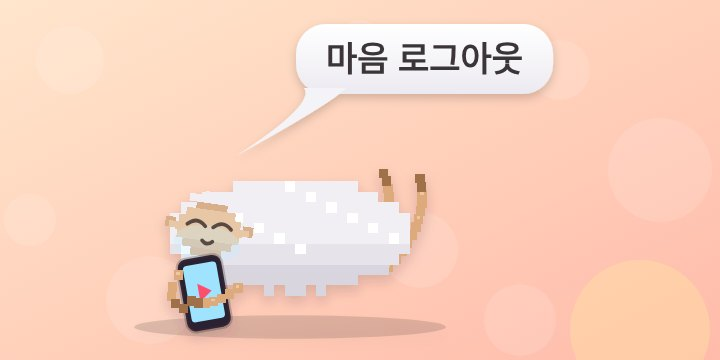
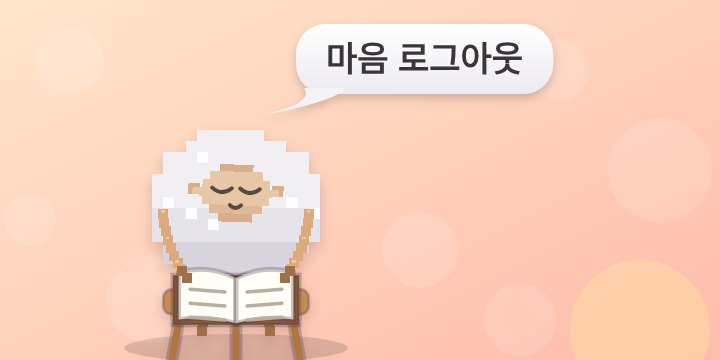
Expand reminder sheep artwork to 50 poses

Changed region(s): [[0.1528, 0.275, 0.6111, 1.0]]

diff --git a/sw.js b/sw.js
@@ -8,32 +8,32 @@
 const DEFAULT_MESSAGES = {
   // 아침(~12시): 아침부터 슬쩍 킹받게
   morning: [
-    ["아담아, 네가 어디 있느냐 👀", "하나님이 아담을 찾으시던 그 질문(창 3:9), 지금 성경책이 똑같이 묻고 있어요. 오늘 분량 {portion}.", "point", "너 어디 있니?"],
-    ["새벽기도는 놓쳤어도 괜찮아요 🌅","주의 긍휼은 아침마다 새롭다잖아요(애 3:22-23). 아침 기회도 아직 새거예요. {portion} 펼쳐요.","cheer","아직 아침임"],
+    ["아담아, 네가 어디 있느냐 👀","하나님이 아담을 찾으시던 그 질문(창 3:9), 지금 성경책이 똑같이 묻고 있어요. 오늘 분량 {portion}.","droop","너 어디 있니?"],
+    ["새벽기도는 놓쳤어도 괜찮아요 🌅","주의 긍휼은 아침마다 새롭다잖아요(애 3:22-23). 아침 기회도 아직 새거예요. {portion} 펼쳐요.","pleading","아직 아침임"],
     ["만나는 해 뜨거워지면 녹습니다 🫠", "출애굽기 16장 21절 실화. 오늘 만나({portion})도 점심 전에 거두는 게 국룰이에요.", "shock", "만나 녹는 중"],
     ["아침 묵상 안 한 양 찾습니다 🔍","목자는 아흔아홉 마리 두고 한 마리를 찾는다던데(눅 15:4)… 네, 지금 찾는 그 한 마리가 당신이에요.","reach","양 찾습니다\n(당신임)"],
     ["커피는 드셨고, 말씀은요? ☕","커피는 벌써 두 잔째인데 성경은 아직 0장. 순서가 살짝 바뀐 것 같아요.","crosslegs","커피 ≠ 말씀"],
-    ["다니엘은 하루 세 번 기도했대요 🦁", "사자 굴 각오하고도 했던 다니엘(단 6:10). 우리는 사자도 없는데 {portion} 정도는…?", "pray", "사자 없음 ㅇㅈ?"],
+    ["다니엘은 하루 세 번 기도했대요 🦁","사자 굴 각오하고도 했던 다니엘(단 6:10). 우리는 사자도 없는데 {portion} 정도는…?","slump","사자 없음 ㅇㅈ?"],
     ["알람 끄고 다시 잠든 거 다 알아요 🤫", "게으른 자여 네가 어느 때까지 누워 있겠느냐(잠 6:9). 잠언이 너무 정확해서 무서운 아침이에요.", "shush", "다 봤음"],
     ["카톡 30개보다 말씀 1장 먼저 📱","알림 빨간 숫자는 기다려 줘요. 오늘 분량 {portion}은 아침에 읽어야 제맛이고요.","phonewait","카톡 말고 이거"],
     ["아브라함은 아침 일찍 일어나… 📜", "성경 인물들 은근 다 아침형이에요(창 22:3). 우리도 아침에 한 장, 찍먹이라도?", "armscross", "너 빼고 다 아침형"],
     ["오늘도 무사히 눈 뜬 기념 🎉", "눈 뜬 것부터 은혜라면, 그 눈으로 성경 한 장 읽는 건 은혜 위에 은혜(요 1:16).", "cheer", "기상 ㅊㅋ"],
-    ["ㄹㅇ 아침인데 성경 안 열면 ㅋㅋ 🌞", "아침에 {portion} 안 읽으면 하루 종일 현타 온다던데요. 지금 펼쳐요.", "crosslegs", "ㄹㅇ 현타 예방"],
+    ["ㄹㅇ 아침인데 성경 안 열면 ㅋㅋ 🌞","아침에 {portion} 안 읽으면 하루 종일 현타 온다던데요. 지금 펼쳐요.","lean","ㄹㅇ 현타 예방"],
     ["아침부터 갓생 선언 🔥", "갓생의 시작은 여호와를 경외하는 데서 시작한대요(잠 1:7). {portion} 한 장이면 시작 완료!", "cheer", "갓생 시작"],
     ["알람 5개 끄고 일어난 거 인정 ⏰", "잠 6:10은 '조금 더 자고 팔짱 끼고'를 경고해요. 이제 팔짱 푸시고 {portion}!", "armscross", "팔짱 풀기"],
     ["오늘 목표: 어제보다 1절 더 🎯", "엄청 많이 말고 어제보다 한 절만 더요. 작은 걸음이 쌓이면 길이 돼요.", "point", "1절만 더"],
     ["공복에 말씀 먼저 🍳","몸 밥은 나중에, 영혼 밥은 먼저요(마 4:4). {portion} 드시고 아침 드세요.","crosslegs","말씀 먼저 간식"],
-    ["물 말고 말씀부터? 💧","물은 한 잔이면 충분하지만 말씀은 아침에 한 장이 베스트래요.","cheer","물 말고 말씀"],
+    ["물 말고 말씀부터? 💧","물은 한 잔이면 충분하지만 말씀은 아침에 한 장이 베스트래요.","sighing","물 말고 말씀"],
     ["어제 읽다 졸았죠? 😏", "괜찮아요. 그래도 오늘 {portion}은 깨어서 봐요. 베드로도 졸았지만 다시 깨어났잖아요(마 26:40).", "peek", "졸았는지 다 봤음"],
     ["출석 부름 받은 거 아시죠? 📋", "하나님은 아담을 부르셨죠(창 3:9). 오늘도 호명에 대답하기! {portion} 펴요.", "sign", "출석 부름"],
   ["새벽 미명에 일어난 사람 🌄","다윗도 새벽에 일어나 말씀에 매달렸대요(시 119:147). 오늘 {portion}, 해 뜨기 전에 먼저 만나 봐요.","run","해 뜨기 전 ㅊㅊ"],
   ["아침 첫 소리는 하나님 말씀으로 📣","하루의 첫 소리를 무엇으로 채울지 정해 봐요. 오늘은 {portion}이 첫 방송이에요.","sign","첫 방송 예약"],
-  ["아침 등불은 말씀이래요 💡","주의 말씀은 내 발에 등이요(시 119:105). 어두운 아침, {portion}으로 불부터 켜요.","point","불 켜기"],
+  ["아침 등불은 말씀이래요 💡","주의 말씀은 내 발에 등이요(시 119:105). 어두운 아침, {portion}으로 불부터 켜요.","waiting","불 켜기"],
   ["오늘 아침 얼굴 붉히지 않게 🌸","부끄러울 일 없는 하루는 말씀으로 시작할 때 쉬워요. {portion}, 지금 펼쳐 볼까요?","heartplease","얼굴 빨개짐"],
   ["아침부터 이마 치기 전에 🤦","어제 뭘 읽었는지 가물가물하다면 괜찮아요. 오늘 {portion}으로 기억을 다시 채워요.","facepalm","기억 리셋"],
   ["새 아침은 새 말씀으로 🌱","주의 인자하심이 아침마다 새로워요(애 3:23). 오늘 {portion}도 처음 읽는 것처럼요.","pray","새 아침"],
   ["아침 한 숟가락, 말씀 한 장 🥄","밥 한 숟가락 뜨기 전에 {portion} 한 절만 먼저 떠 보세요. 배부른 하루가 시작돼요.","crosslegs","한 숟가락 먼저"],
-  ["독수리처럼 날개 치기 전에 🦅","날개 치며 오르려면 먼저 든든히 먹어야 해요(사 40:31). 오늘 {portion}이 그 든든한 아침이에요.","cheer","날개 준비"],
+  ["독수리처럼 날개 치기 전에 🦅","날개 치며 오르려면 먼저 든든히 먹어야 해요(사 40:31). 오늘 {portion}이 그 든든한 아침이에요.","dozing","날개 준비"],
   ["나를 부지런히 찾는 자 🔎","새벽에 나를 찾는 자가 나를 만나리라(잠 8:17). 오늘도 {portion}에서 만나요.","peek","찾았다!"],
     ["좋은 아침이에요, 오늘도 함께 읽어요 ☀", "서두르지 않아도 괜찮아요. 오늘의 {portion}에서 마음에 닿는 한 문장을 만나 보세요.", "pray", "천천히 한 문장"],
     ["오늘 첫 페이지를 열 시간 📖","딱 한 장부터 시작해요. 작은 시작이 하루의 방향을 바꿔 줍니다.","point","첫 페이지"],
@@ -41,27 +41,27 @@ const DEFAULT_MESSAGES = {
   ],
   // 오후(12~18시) 나른할 때 찌르기
   afternoon: [
-    ["엘리야 로뎀나무 모드 감지 🌳", "지쳐 누운 엘리야에게도 천사가 '일어나서 먹으라' 했죠(왕상 19:5). 오늘 떡은 {portion}.", "lounge", "일어나 먹으라"],
+    ["엘리야 로뎀나무 모드 감지 🌳","지쳐 누운 엘리야에게도 천사가 '일어나서 먹으라' 했죠(왕상 19:5). 오늘 떡은 {portion}.","embarrassed","일어나 먹으라"],
     ["식곤증 주의: 유두고 사례 🪟", "바울 설교 듣다 졸다가 창문에서 떨어진 유두고(행 20:9). 성경 읽다 졸면 적어도 바닥이라 안전해요.", "sleep", "…zzZ"],
     ["제 구 시, 기도할 시간이에요 🕒", "베드로와 요한은 오후 세 시에 기도하러 성전에 올라갔대요(행 3:1). 오후 세 시엔 말씀 한 장도 좋아요.", "peek", "제 구 시임"],
     ["요나처럼 반대 방향 가는 중? 🐋", "니느웨 말고 다시스행 배를 탄 요나(욘 1:3). 성경 말고 쇼츠를 탄 우리. 지금 방향 전환 가능합니다.", "run", "다시스 아님!"],
     ["오후 간식은 칼로리 0 🍯", "주의 말씀의 맛이 꿀보다 더 달다고(시 119:103). 0kcal인데 달대요. {portion} 한 입?", "crosslegs", "0kcal 꿀"],
-    ["삭개오야, 속히 내려오라 🌳", "나무 위에서 구경만 하던 삭개오처럼(눅 19:5), 오늘 말씀도 구경만 하고 있진 않나요?", "point", "내려오라"],
+    ["삭개오야, 속히 내려오라 🌳","나무 위에서 구경만 하던 삭개오처럼(눅 19:5), 오늘 말씀도 구경만 하고 있진 않나요?","wave_small","내려오라"],
     ["오늘 통독률 0%… 실화? ⏳", "와이파이는 빵빵한데 말씀 진도는 0%. 지금 {portion} 누르면 바로 로딩 시작이에요.", "eye_roll", "0%…실화?"],
     ["마리아는 좋은 편을 택했대요 ✨", "바쁜 오후여도 필요한 것은 한 가지(눅 10:42). 할 일 목록 맨 위에 {portion} 올려 둘게요.", "sign", "좋은 편\n택하는 중"],
     ["바로 왕처럼 '내일' 하실 건가요? 🐸","개구리 재앙 언제 없애 줄까 물으니 '내일'이라던 바로(출 8:10). 어디서 많이 본 패턴인데요.","crosslegs","내일? 🐸"],
     ["남은 알림 전에 선수 치기 🏃", "지금 읽으면 오늘 남은 알림이 조용해져요. 알림 피하는 가장 빠른 방법!", "shush", "조용히 끝내자"],
-    ["오후 3시 집중력 바닥 🫠", "엘리야도 로뎀나무 아래서 쓰러졌지만 천사가 먹을 것을 주고 다시 세웠어요(왕상 19:5-7). {portion} 한 장으로 충전!", "lounge", "충전 필요"],
+    ["오후 3시 집중력 바닥 🫠","엘리야도 로뎀나무 아래서 쓰러졌지만 천사가 먹을 것을 주고 다시 세웠어요(왕상 19:5-7). {portion} 한 장으로 충전!","wave_tired","충전 필요"],
     ["점심 먹고 쇼츠 3개 봤죠? 📱", "쇼츠는 3개에서 멈추기 힘들지만, 성경은 {portion} 한 장에서 멈춰도 괜찮아요.", "phone", "쇼츠 말고 이거"],
     ["ㄹㅇ 오후는 졸음 전쟁... 😴", "식곤증은 말씀으로 이기는 거예요(시 119:103). 한 절만 읽고 세수 한번 해요.", "sleep", "졸음 전쟁"],
     ["이거 실화냐 통독 0%? 🤔","0%는 아직 '시작 전'이라는 뜻! {portion} 누르면 1%예요. 진짜로요.","condescend","0% 실화?"],
     ["지금 가는 길 맞아요? 🧭", "요나처럼 방향 틀기 전에 {portion} 한 번 펼쳐 보는 것도 좋아요(욘 1:3).", "run", "방향 체크"],
-    ["오후 간식은 말씀 간식 🍪", "꿀보다 달다는 말씀이에요(시 119:103). 칼로리 걱정 없는 간식! {portion} 한 입.", "crosslegs", "칼로리 0"],
+    ["오후 간식은 말씀 간식 🍪","꿀보다 달다는 말씀이에요(시 119:103). 칼로리 걱정 없는 간식! {portion} 한 입.","arms_open","칼로리 0"],
     ["버스 타는 중이면 한 절 🚌", "버스 세 정거장이면 한 장도 가능한 거리예요. {portion} 열어 두세요.", "phone", "버스에서 한 절"],
     ["'내일 하지 뭐' 금지 ⏳","바로처럼 미루다 보면 결국 못 가요(출 8:10). 지금 {portion} 부탁!","fingerwag","내일 금지"],
     ["잠깐, 마음에 쉼표를 놓아 볼까요? 🍃","바쁜 틈에 숨을 고르고 {portion} 한 장 읽어요. 오늘도 충분히 잘하고 있어요.","cheer","마음의 쉼표"],
     ["3분만 집중 모드 켜기 🎧", "알림은 잠시 내려놓고 말씀 한 단락만 읽어 봐요. 작은 집중이 깊은 쉼이 됩니다.", "phone", "집중 모드"],
-    ["속보: 오후의 내가 말씀을 기다립니다 📰", "쇼츠 한 편 대신 {portion} 한 장이면 오늘 이야기의 주인공은 나예요.", "sign", "속보입니다"],
+    ["속보: 오후의 내가 말씀을 기다립니다 📰","쇼츠 한 편 대신 {portion} 한 장이면 오늘 이야기의 주인공은 나예요.","shoulders_up","속보입니다"],
   ],
   // 저녁(18~20시)
   evening: [
@@ -69,22 +69,22 @@ const DEFAULT_MESSAGES = {
     ["베뢰아 성도 모집 중 📜", "날마다 성경을 상고하던 베뢰아 사람들처럼(행 17:11), 오늘은 {portion}을 상고할 차례예요.", "sign", "베뢰아 성도\n모집 중"],
     ["칼뱅의 안경 챙기셨나요? 👓", "칼뱅은 성경을 하나님을 바로 보게 하는 안경이라 했죠. 오늘 안경은 아직 서랍 속에 있어요.", "peek", "안경 어디?"],
     ["사무엘아, 사무엘아 👂", "“말씀하옵소서 주의 종이 듣겠나이다”(삼상 3:10)가 정답인데, 지금 대답이 '5분만…'인 것 같아요.", "sideeye", "5분만…"],
-    ["퇴근길 말씀 한 조각 🚇", "오늘 분량은 {portion}. 두세 정거장이면 한 장이 끝나요. 쇼츠 말고 이거요.", "phone", "지하철엔 성경"],
+    ["퇴근길 말씀 한 조각 🚇","오늘 분량은 {portion}. 두세 정거장이면 한 장이 끝나요. 쇼츠 말고 이거요.","hands_behind","지하철엔 성경"],
     ["저녁은 드셨고, 말씀은요? 🍚", "사람이 떡으로만 살 것이 아니라 하셨는데(마 4:4), 오늘 설마 떡만 드신 건 아니죠?", "armscross", "떡만 먹음?"],
     ["롯의 아내처럼 뒤돌아보지 마요 🧂", "오늘 하루 돌아보며 한숨 쉬지 말고(창 19:26), 앞에 놓인 {portion}만 보고 가요.", "shock", "소금 될 뻔"],
     ["노아는 비 오기 전에 방주 지었어요 🛶", "비 오고 나서 지으면 늦잖아요(창 6:22). 자정 오기 전에 {portion} 지어 봐요.", "run", "비 오기 전에!"],
     ["여리고는 일곱 바퀴, 오늘은 한 장부터 🎺","여리고 성은 일곱 바퀴 돌아야 무너졌지만(수 6:4), 오늘 분량은 한 장씩 넘기면 무너져요.","sign","뿌우우~"],
-    ["기드온처럼 표징 기다리는 중? 🐑","양털로 확인하던 기드온처럼(삿 6:37) 사인을 기다리셨다면… 이 양이 그 표징입니다. 지금 읽으세요.","condescend","이게 표징임"],
+    ["기드온처럼 표징 기다리는 중? 🐑","양털로 확인하던 기드온처럼(삿 6:37) 사인을 기다리셨다면… 이 양이 그 표징입니다. 지금 읽으세요.","book_overhead","이게 표징임"],
     ["저녁 먹고 뭐 하세요? 🍽","설거지 끝나고 소파에 눕기 전에 {portion} 먼저 펼쳐요. 누워서 해도 인정!","sideeye","소파 전에 한 장"],
     ["오늘 하루 감사 한 줄 준비 ✍", "오늘 말씀 한 절에 감사 한 줄 쓰면 하루가 완성돼요(살전 5:18).", "sign", "감사 한 줄"],
     ["ㅋㅋ 오늘 통독 안 하고 밤 되었죠? 🌙", "밤에 하면 조금 더 힘들어요. 그래도 {portion} 한 장!", "shock", "밤이 왔다"],
     ["갓생 러너 퇴근 완료 🏃", "오늘 달렸으니 마지막 한 바퀴! 달려갈 길을 마치기 위해(딤후 4:7) {portion}.", "run", "마지막 한 바퀴"],
-    ["말씀 없이 잠들면 꿈도 흐려져요 💭", "꿈 얘기하던 요셉처럼(창 37:5) 오늘 말씀을 꿈에 가져가요. {portion} 펴고 자요.", "peek", "꿈에 말씀 들고"],
+    ["말씀 없이 잠들면 꿈도 흐려져요 💭","꿈 얘기하던 요셉처럼(창 37:5) 오늘 말씀을 꿈에 가져가요. {portion} 펴고 자요.","book_on_head","꿈에 말씀 들고"],
     ["아 피곤하죠? 그래도 한 장 🥱", "엘리야도 천사가 준 떡 한 끼로 40일을 갔어요(왕상 19:8). 말씀 한 끼 먹고 자요.", "lounge", "말씀 한 끼"],
     ["내일 아침의 나에게 떠넘기기 금지 📝", "내일 일은 내일이 염려할 거예요(마 6:34). 오늘 {portion}은 오늘 읽어요.", "sign", "오늘이 마감"],
     ["폰 내려놓고 성경 열기 📵", "폰 80%보다 성경 한 장 100%! {portion} 펴면 잠도 잘 와요.", "shush", "폰 내려놓기"],
     ["저녁의 평안을 한 페이지에 🌙", "하루의 소음을 잠시 내려놓고, {portion}을 천천히 읽으며 마음을 쉬게 해요.", "pray", "평안 한 페이지"],
-    ["퇴근 완료! 마음도 로그아웃 전에 📤", "오늘의 마지막 업무는 나를 살리는 말씀 읽기. {portion} 확인 후 편히 쉬세요.", "phone", "마음 로그아웃"],
+    ["퇴근 완료! 마음도 로그아웃 전에 📤","오늘의 마지막 업무는 나를 살리는 말씀 읽기. {portion} 확인 후 편히 쉬세요.","reading_seated","마음 로그아웃"],
     ["양심이 아니라 양이 톡 보냈어요 🐑", "오늘 읽을 {portion}이 아직 안 읽힘 상태래요. 지금 열면 바로 해결됩니다.", "peek", "안 읽음 1건"],
   ],
   // 밤(20~22시): 더 킹받게
@@ -92,22 +92,22 @@ const DEFAULT_MESSAGES = {
     ["마르다야, 마르다야 🍳", "분주한 하루였죠. 그래도 필요한 것은 한 가지(눅 10:42). {portion}, 지금 주님 발치에 앉아 볼까요?", "facepalm", "마르다야…"],
     ["도르트 총회만큼 미루실 건가요? ⏳", "도르트 총회는 반년이 넘게 걸렸지만, 오늘 통독은 20분이면 돼요.", "eye_roll", "도르트급 미룸"],
     ["쇼츠 대신 성경 한 장? 📱", "알고리즘은 끝이 없지만 오늘 분량은 끝이 있어요. {portion}부터 가볍게 시작해요.", "phone", "쇼츠 3시간째"],
-    ["겟세마네 제자들 모드 😴","“너희가 나와 함께 한 시간도 깨어 있을 수 없더냐”(마 26:40). 한 시간까진 필요 없어요. 20분이면 돼요.","stomp","한 시간도…?"],
+    ["겟세마네 제자들 모드 😴","“너희가 나와 함께 한 시간도 깨어 있을 수 없더냐”(마 26:40). 한 시간까진 필요 없어요. 20분이면 돼요.","book_rest","한 시간도…?"],
     ["보아스가 이삭을 남겨 뒀어요 🌾", "룻을 위해 일부러 이삭을 흘려 두던 보아스처럼(룻 2:16), 오늘 말씀 이삭도 넉넉히 남아 있어요.", "crosslegs", "이삭 남음 ㅎ"],
     ["에스라는 새벽부터 정오까지 읽었대요 📖", "느헤미야 8장의 에스라는 반나절을 읽었는데(느 8:3), 우리는 {portion}이면 돼요. 할 만하죠?", "sign", "에스라: 6시간\n나: 0분"],
     ["주야로 묵상, 이제 '야'만 남았어요 🌙", "복 있는 사람은 주야로 묵상한다죠(시 1:2). 낮은 지나갔지만 밤은 아직 길어요.", "lounge", "이제 '야'임"],
     ["발람의 나귀도 말을 했는데 🫏","나귀까지 입을 열어 말렸는데(민 22:28), 이제 양까지 나섰습니다. 성경 펴세요.","sign","양도 말함"],
-    ["닭 울기 전에 세 번째 다짐? 🐓","“오늘은 진짜 읽는다” 오늘 몇 번째 다짐이세요? 닭 울기 전에 지켜 봐요(마 26:34).","crosslegs","세 번째임"],
+    ["닭 울기 전에 세 번째 다짐? 🐓","“오늘은 진짜 읽는다” 오늘 몇 번째 다짐이세요? 닭 울기 전에 지켜 봐요(마 26:34).","head_tilt","세 번째임"],
     ["섭리 가운데 도착한 알림입니다 😌","이 알림을 지금 보신 것도 섭리 안에 있겠죠? 순종으로 응답할 시간이에요.","condescend","섭리임 ㅇㅇ"],
     ["밤이 깊을수록 말씀이 또렷 🌃","밤에 읽는 시편은 참 맛있어요. 주야로 묵상하는 사람은 복 있는 사람이래요(시 1:2). {portion}!","condescend","밤 시편 맛집"],
     ["ㅅㄱ 또 밤에 생각났죠? 🤭", "밤에 생각나는 말씀이 제일 오래 남아요. 지금 {portion} 한 장만요.", "crosslegs", "밤에 생각남"],
     ["잠들기 전 기도 한마디 + 말씀 한 장 🙏","자기 전 말씀 한 장, 기도 한 줄이면 완벽한 마무리예요. {portion} 펴고 기도해요.","kneel","취침 전 루틴"],
-    ["오늘 완주 못 하면 어떡하지… 😰","완벽하지 않아도 돼요. 할 수 있는 만큼, {portion} 한 절부터 시작해요.","pleading","한 절이면 됨"],
+    ["오늘 완주 못 하면 어떡하지… 😰","완벽하지 않아도 돼요. 할 수 있는 만큼, {portion} 한 절부터 시작해요.","foot_tap","한 절이면 됨"],
     ["밤 11시, 아직 살아 계신가요? 👀", "밤샘은 말고, 깨어 있을 때 {portion} 한 번만 펼쳐요(마 26:41).", "shush", "깨어 있기"],
     ["쇼츠 대신 시편 한 편? 🎵","시편은 노래책이라 노래 한 곡 듣는 셈 쳐요. {portion} 열고 소리 내 읽어 봐요.","offerbook","시편 틀기"],
     ["자려고 누웠는데 폰 보는 중 🛌","누운 채로 {portion} 한 절만요. 그리고 폰은 내려놓아요.","phonewait","누워서 한 절"],
     ["오늘 진짜 마지막 질문! 📣","오늘 말씀 읽었나요? NO면 지금 {portion} 한 절만 읽고 주무세요.","eye_roll","YES or NO?"],
-    ["오늘 하루, 여기까지도 수고했어요 🌌","남은 힘이 적다면 한 절만 읽어도 좋아요. 말씀 안에서 하루를 다정하게 마무리해요.","heartplease","한 절도 좋아요"],
+    ["오늘 하루, 여기까지도 수고했어요 🌌","남은 힘이 적다면 한 절만 읽어도 좋아요. 말씀 안에서 하루를 다정하게 마무리해요.","crawl","한 절도 좋아요"],
     ["마감 임박! 성경책은 야근 안 시킬게요 🕘","전부 끝내려 애쓰지 않아도 돼요. {portion}에서 한 장만 함께 읽어요.","facepalm","한 장이면 충분"],
     ["야식 대신 말씀 한 입 🍯","오늘의 양식은 아직 남아 있어요. {portion} 한 장 맛보고 편히 잠들어요.","crosslegs","마음 야식"],
   ],
@@ -115,7 +115,7 @@ const DEFAULT_MESSAGES = {
   last: [
     ["열 처녀 비유, 등불 점검 🪔","자정까지 한 시간! 오늘 통독 등불이 아직 꺼져 있어요(마 25장). 기름 채우러 가요.","point","기름 없음!!"],
     ["🔥 {streak}일 연속 기록이 위태로워요","바울은 달려갈 길을 마쳤다는데(딤후 4:7), 우리의 연속 통독은 오늘 멈출 위기예요.","cling","연속 기록!!","streak"],
-    ["니고데모도 밤에 찾아왔어요 🌃", "늦은 밤에 말씀 앞에 나와도 괜찮아요(요 3:2). 지금 한 장이라도 펼쳐요.", "peek", "밤에 와도 됨"],
+    ["니고데모도 밤에 찾아왔어요 🌃","늦은 밤에 말씀 앞에 나와도 괜찮아요(요 3:2). 지금 한 장이라도 펼쳐요.","tiny_bow","밤에 와도 됨"],
     ["개미에게 가서 배우라시던데요 🐜", "잠언 6장 6절이 이 시간에 떠오른 건 우연일까요? 아직 늦지 않았어요.", "sign", "개미 보고\n배우는 중"],
     ["당회에는 비밀로 할게요 🤫", "오늘 통독 안 한 거, 목사님·장로님껜 말 안 할게요. 대신 자기 전에 {portion} 딱 펼쳐 주세요.", "shush", "비밀 지켜줌"],
     ["마지막 알림이에요. 진짜로요.","은혜는 값없이 주어지지만 성경은 펼쳐야 읽혀요. 오늘이 가기 전에 한 장만이라도! 🙏","lastlook","진짜 마지막"],
@@ -234,7 +234,7 @@ async function buildMessage() {
   const fill = (s) => s.replace(/\{portion\}/g, portion).replace(/\{streak\}/g, String(streak));
   // 메시지마다 양(🐑) 포즈 그림: icons/notify/<시간대>-<원래 순서>.jpg (안드로이드·PC 크롬/엣지에서 크게 보임, 아이폰은 표시 안 함)
   const rowIndex = MESSAGES[tier].indexOf(pool[idx]);
-  const image = pool[idx][5] || `icons/notify/${tier}-${rowIndex}.jpg?v=sheep-thirty-simple-mouths-20261028`;
+  const image = pool[idx][5] || `icons/notify/${tier}-${rowIndex}.jpg?v=sheep-fifty-poses-20261028`;
   return { title: fill(pool[idx][0]), body: fill(pool[idx][1]), image };
 }
 

diff --git a/tools/notify-art/art.js b/tools/notify-art/art.js
@@ -44,7 +44,7 @@ function faceMarks(spec) {
   if (has("tint")) s += ell(0, -12, 30, 12, "#8FA2F0", 'opacity="0.45"') + line("M-12,-22 L-12,-14 M0,-24 L0,-16 M12,-22 L12,-14", "#6275D0", 1.8, 'opacity="0.7"');
   if (has("glow")) s += ell(0, 14, 26, 14, "#BFEFFF", 'opacity="0.3"');
   // 눈동자·흰자·점 없이 이모티콘처럼 짧은 곡선 두 개만 쓴다.
-  // 감정 차이는 곡선의 방향과 눈썹, 얼굴 기울기로 표현한다.
+  // 감정 차이는 곡선의 방향과 얼굴 기울기로 표현한다.
   const eyesByMood = {
     side: ["M-17,1 Q-10,-5 -3,1", "M5,0 Q11,-4 17,0"],
     roll: ["M-17,2 Q-10,-4 -3,1", "M4,1 Q10,-5 17,2"],
@@ -115,7 +115,7 @@ function limb(pts, { w = 10, tip = true } = {}) {
   return out;
 }
 function hoofAt(x, y, r = 7) { return circle(x, y, r, C.tip) + circle(x - r * 0.3, y - r * 0.35, r * 0.35, "#fff", 'opacity="0.3"'); }
-function bigHoof(x, y, r = 15) { return circle(x, y, r, C.tip) + line(`M${x},${y - r * 0.8} L${x},${y + r * 0.2}`, "#7A5033", 2.5) + ell(x - r * 0.35, y - r * 0.4, r * 0.3, r * 0.18, "#fff", 'opacity="0.35"'); }
+function bigHoof(x, y, r = 15) { return circle(x, y, r, C.tip); }
 
 // ---------- 효과 ----------
 function sweatDrop(x, y, s = 1) {
@@ -277,8 +277,7 @@ const POSES = {
     hip(-1) + limb([[52, 4], [76, 18], [88, 12]]) + line("M-99,-42 L-80,-48 M-100,-28 L-82,-31", "#D9C9B5", 3),
   // 한쪽 눈썹만 올린 채 여유롭게 미소 짓는다.
   fingerwag: () => shadow(0, 92) + legs() + sheep({ expr: "squint,flat" }) + hang(-1) +
-    limb([[52, 4], [66, -12], [82, -38]], { tip: false, w: 9 }) +
-    line("M83,-54 L83,-40 M75,-50 L79,-42 M91,-50 L87,-42", "#F2C14E", 3),
+    limb([[52, 4], [66, -12], [82, -38]], { w: 9 }),
   // 두 앞발을 모아 오늘 분량을 꼭 부탁한다.
   pleading: () => shadow(0, 92) + legs() + sheep({ expr: "sad,pout,blush" }) +
     limb([[-52, 4], [-34, 28], [0, 10]]) + limb([[52, 4], [34, 28], [0, 10]]) +
@@ -319,7 +318,27 @@ const POSES = {
   offerbook: () => shadow(0, 92) + legs() + sheep({ expr: "sad,blush" }) +
     limb([[-52, 4], [-67, 24], [-76, 34]]) + limb([[52, 4], [77, 18], [86, 6]]) +
     bible(96, -4, 42, 54, 12),
-  // 무릎을 끌어안고 기다리지만 눈길은 문 쪽으로 향한다.
+  // 축 처진 양, 늦은 답장과 소소한 부탁을 표현하는 추가 포즈.
+  droop: () => shadow(0,92) + legs() + sheep({expr:"vv,flat",frot:12}) + hang(-1) + hang(1),
+  slump: () => shadow(0,92) + legs() + g("rotate(15)", sheep({expr:"closed,flat"}) + hang(-1) + hang(1)),
+  lean: () => shadow(0,92) + legs() + sheep({expr:"side,flat",frot:-15}) + hip(-1) + hang(1),
+  sighing: () => shadow(0,92) + legs() + sheep({expr:"vv,flat"}) + hang(-1) + hang(1) + sighCloud(85,-35),
+  waiting: () => shadow(0,100,80) + stool(0,66) + legs() + sheep({expr:"side,flat"}) + hang(-1) + hang(1),
+  dozing: () => shadow(0,92) + legs() + sheep({expr:"closed,flat",frot:20}) + hang(-1) + hang(1) + zzz(60,-20),
+  embarrassed: () => shadow(0,92) + legs() + sheep({expr:"vv,blush,sweat"}) + limb([[-52,4],[-60,-12],[-36,-24]]) + hang(1),
+  wave_small: () => shadow(0,92) + legs() + sheep({expr:"vv,blush"}) + hang(-1) + limb([[52,4],[65,0],[68,-20]]),
+  wave_tired: () => shadow(0,92) + legs() + sheep({expr:"closed,flat",frot:8}) + hang(-1) + limb([[52,4],[64,20],[76,16]]),
+  arms_open: () => shadow(0,92) + legs() + sheep({expr:"^^,blush"}) + limb([[-52,4],[-75,4],[-92,-8]]) + limb([[52,4],[75,4],[92,-8]]),
+  shoulders_up: () => shadow(0,92) + legs() + sheep({expr:"side,flat"}) + limb([[-52,4],[-77,-6],[-72,-24]]) + limb([[52,4],[77,-6],[72,-24]]),
+  hands_behind: () => shadow(0,92) + legs() + limb([[-52,4],[-70,20],[-55,42]]) + limb([[52,4],[70,20],[55,42]]) + sheep({expr:"vv,blush"}),
+  book_overhead: () => shadow(0,92) + legs() + sheep({expr:"^^,o"}) + limb([[-52,4],[-70,-30],[-42,-64]]) + limb([[52,4],[70,-30],[42,-64]]) + bible(0,-74,56,42),
+  book_on_head: () => shadow(0,92) + legs() + sheep({expr:"vv,flat"}) + hang(-1) + hang(1) + bible(0,-61,68,28,-3),
+  reading_seated: () => shadow(0,100,80) + stool(0,66) + legs() + sheep({expr:"closed"}) + bible(0,50,82,54,0,true) + limb([[-52,4],[-50,30],[-35,50]]) + limb([[52,4],[50,30],[35,50]]),
+  book_rest: () => shadow(0,92) + legs() + sheep({expr:"vv,flat",frot:8}) + hang(-1) + limb([[52,4],[70,20],[80,38]]) + bible(91,43,40,52,12),
+  head_tilt: () => shadow(0,92) + legs() + sheep({expr:"side,pout",frot:22}) + hang(-1) + hip(1),
+  foot_tap: () => shadow(0,92) + limb([[-22,48],[-24,88]]) + limb([[22,48],[45,84]]) + sheep({expr:"side,flat"}) + hip(-1) + hip(1) + tapMarks(46,88),
+  crawl: () => shadow(0,75,110) + sheep({rx:85,ry:40,fx:-55,fy:-5,expr:"sad,pout"}) + limb([[-50,30],[-80,55],[-95,54]]) + limb([[45,30],[80,54],[98,54]]),
+  tiny_bow: () => shadow(0,92) + legs() + g("rotate(18)",sheep({expr:"closed,blush"}) + limb([[-52,4],[-30,30],[-5,35]]) + limb([[52,4],[30,30],[5,35]])),
 };
 
 function bubbleText(text, x, y) {

diff --git a/js/features/reminder-admin.js b/js/features/reminder-admin.js
@@ -28,7 +28,7 @@ function reminderAdminLoadArt() {
   reminderAdminArtScript = new Promise((resolve, reject) => {
     const script = document.createElement("script");
     script.type = "module";
-    script.src = "tools/notify-art/art.js?v=reminder-stability-6";
+    script.src = "tools/notify-art/art.js?v=reminder-stability-7";
     script.onload = () => window.ReminderArt?.renderCard ? resolve(window.ReminderArt) : reject(new Error("양 그림 렌더러를 찾지 못했어요."));
     script.onerror = () => reject(new Error("양 그림 렌더러를 불러오지 못했어요."));
     document.head.append(script);

diff --git a/index.html b/index.html
@@ -79,7 +79,7 @@
   <script src="js/features/summary.js?v=10.10.0"></script>
   <script src="js/features/qt.js?v=10.10.0"></script>
   <script src="js/features/qtgraph.js?v=10.10.0"></script>
-  <script src="js/features/reminder-admin.js?v=10.10.0&rev=reminder-admin-stability-4"></script>
+  <script src="js/features/reminder-admin.js?v=10.10.0&rev=reminder-admin-stability-7"></script>
   <script src="js/features/stats.js?v=10.10.0&rev=admin-random-reminder-db-1"></script>
   <script src="js/features/export.js?v=10.10.0"></script>
   <script src="js/features/reminder.js?v=10.10.0"></script>

diff --git a/docs/reminder-catalog.md b/docs/reminder-catalog.md
@@ -8,32 +8,32 @@
 
 | # | 알림 제목 | 알림 본문 | 양 포즈 | 그림 말풍선 | 조건 | 이미지 |
 |---:|---|---|---|---|---|---|
-| 1 | 아담아, 네가 어디 있느냐 👀 | 하나님이 아담을 찾으시던 그 질문(창 3:9), 지금 성경책이 똑같이 묻고 있어요. 오늘 분량 {portion}. | `point` | 너 어디 있니? | 항상 | [그림 보기](../icons/notify/morning-0.jpg) |
-| 2 | 새벽기도는 놓쳤어도 괜찮아요 🌅 | 주의 긍휼은 아침마다 새롭다잖아요(애 3:22-23). 아침 기회도 아직 새거예요. {portion} 펼쳐요. | `cheer` | 아직 아침임 | 항상 | [그림 보기](../icons/notify/morning-1.jpg) |
+| 1 | 아담아, 네가 어디 있느냐 👀 | 하나님이 아담을 찾으시던 그 질문(창 3:9), 지금 성경책이 똑같이 묻고 있어요. 오늘 분량 {portion}. | `droop` | 너 어디 있니? | 항상 | [그림 보기](../icons/notify/morning-0.jpg) |
+| 2 | 새벽기도는 놓쳤어도 괜찮아요 🌅 | 주의 긍휼은 아침마다 새롭다잖아요(애 3:22-23). 아침 기회도 아직 새거예요. {portion} 펼쳐요. | `pleading` | 아직 아침임 | 항상 | [그림 보기](../icons/notify/morning-1.jpg) |
 | 3 | 만나는 해 뜨거워지면 녹습니다 🫠 | 출애굽기 16장 21절 실화. 오늘 만나({portion})도 점심 전에 거두는 게 국룰이에요. | `shock` | 만나 녹는 중 | 항상 | [그림 보기](../icons/notify/morning-2.jpg) |
 | 4 | 아침 묵상 안 한 양 찾습니다 🔍 | 목자는 아흔아홉 마리 두고 한 마리를 찾는다던데(눅 15:4)… 네, 지금 찾는 그 한 마리가 당신이에요. | `reach` | 양 찾습니다<br>(당신임) | 항상 | [그림 보기](../icons/notify/morning-3.jpg) |
 | 5 | 커피는 드셨고, 말씀은요? ☕ | 커피는 벌써 두 잔째인데 성경은 아직 0장. 순서가 살짝 바뀐 것 같아요. | `crosslegs` | 커피 ≠ 말씀 | 항상 | [그림 보기](../icons/notify/morning-4.jpg) |
-| 6 | 다니엘은 하루 세 번 기도했대요 🦁 | 사자 굴 각오하고도 했던 다니엘(단 6:10). 우리는 사자도 없는데 {portion} 정도는…? | `pray` | 사자 없음 ㅇㅈ? | 항상 | [그림 보기](../icons/notify/morning-5.jpg) |
+| 6 | 다니엘은 하루 세 번 기도했대요 🦁 | 사자 굴 각오하고도 했던 다니엘(단 6:10). 우리는 사자도 없는데 {portion} 정도는…? | `slump` | 사자 없음 ㅇㅈ? | 항상 | [그림 보기](../icons/notify/morning-5.jpg) |
 | 7 | 알람 끄고 다시 잠든 거 다 알아요 🤫 | 게으른 자여 네가 어느 때까지 누워 있겠느냐(잠 6:9). 잠언이 너무 정확해서 무서운 아침이에요. | `shush` | 다 봤음 | 항상 | [그림 보기](../icons/notify/morning-6.jpg) |
 | 8 | 카톡 30개보다 말씀 1장 먼저 📱 | 알림 빨간 숫자는 기다려 줘요. 오늘 분량 {portion}은 아침에 읽어야 제맛이고요. | `phonewait` | 카톡 말고 이거 | 항상 | [그림 보기](../icons/notify/morning-7.jpg) |
 | 9 | 아브라함은 아침 일찍 일어나… 📜 | 성경 인물들 은근 다 아침형이에요(창 22:3). 우리도 아침에 한 장, 찍먹이라도? | `armscross` | 너 빼고 다 아침형 | 항상 | [그림 보기](../icons/notify/morning-8.jpg) |
 | 10 | 오늘도 무사히 눈 뜬 기념 🎉 | 눈 뜬 것부터 은혜라면, 그 눈으로 성경 한 장 읽는 건 은혜 위에 은혜(요 1:16). | `cheer` | 기상 ㅊㅋ | 항상 | [그림 보기](../icons/notify/morning-9.jpg) |
-| 11 | ㄹㅇ 아침인데 성경 안 열면 ㅋㅋ 🌞 | 아침에 {portion} 안 읽으면 하루 종일 현타 온다던데요. 지금 펼쳐요. | `crosslegs` | ㄹㅇ 현타 예방 | 항상 | [그림 보기](../icons/notify/morning-10.jpg) |
+| 11 | ㄹㅇ 아침인데 성경 안 열면 ㅋㅋ 🌞 | 아침에 {portion} 안 읽으면 하루 종일 현타 온다던데요. 지금 펼쳐요. | `lean` | ㄹㅇ 현타 예방 | 항상 | [그림 보기](../icons/notify/morning-10.jpg) |
 | 12 | 아침부터 갓생 선언 🔥 | 갓생의 시작은 여호와를 경외하는 데서 시작한대요(잠 1:7). {portion} 한 장이면 시작 완료! | `cheer` | 갓생 시작 | 항상 | [그림 보기](../icons/notify/morning-11.jpg) |
 | 13 | 알람 5개 끄고 일어난 거 인정 ⏰ | 잠 6:10은 '조금 더 자고 팔짱 끼고'를 경고해요. 이제 팔짱 푸시고 {portion}! | `armscross` | 팔짱 풀기 | 항상 | [그림 보기](../icons/notify/morning-12.jpg) |
 | 14 | 오늘 목표: 어제보다 1절 더 🎯 | 엄청 많이 말고 어제보다 한 절만 더요. 작은 걸음이 쌓이면 길이 돼요. | `point` | 1절만 더 | 항상 | [그림 보기](../icons/notify/morning-13.jpg) |
 | 15 | 공복에 말씀 먼저 🍳 | 몸 밥은 나중에, 영혼 밥은 먼저요(마 4:4). {portion} 드시고 아침 드세요. | `crosslegs` | 말씀 먼저 간식 | 항상 | [그림 보기](../icons/notify/morning-14.jpg) |
-| 16 | 물 말고 말씀부터? 💧 | 물은 한 잔이면 충분하지만 말씀은 아침에 한 장이 베스트래요. | `cheer` | 물 말고 말씀 | 항상 | [그림 보기](../icons/notify/morning-15.jpg) |
+| 16 | 물 말고 말씀부터? 💧 | 물은 한 잔이면 충분하지만 말씀은 아침에 한 장이 베스트래요. | `sighing` | 물 말고 말씀 | 항상 | [그림 보기](../icons/notify/morning-15.jpg) |
 | 17 | 어제 읽다 졸았죠? 😏 | 괜찮아요. 그래도 오늘 {portion}은 깨어서 봐요. 베드로도 졸았지만 다시 깨어났잖아요(마 26:40). | `peek` | 졸았는지 다 봤음 | 항상 | [그림 보기](../icons/notify/morning-16.jpg) |
 | 18 | 출석 부름 받은 거 아시죠? 📋 | 하나님은 아담을 부르셨죠(창 3:9). 오늘도 호명에 대답하기! {portion} 펴요. | `sign` | 출석 부름 | 항상 | [그림 보기](../icons/notify/morning-17.jpg) |
 | 19 | 새벽 미명에 일어난 사람 🌄 | 다윗도 새벽에 일어나 말씀에 매달렸대요(시 119:147). 오늘 {portion}, 해 뜨기 전에 먼저 만나 봐요. | `run` | 해 뜨기 전 ㅊㅊ | 항상 | [그림 보기](../icons/notify/morning-18.jpg) |
 | 20 | 아침 첫 소리는 하나님 말씀으로 📣 | 하루의 첫 소리를 무엇으로 채울지 정해 봐요. 오늘은 {portion}이 첫 방송이에요. | `sign` | 첫 방송 예약 | 항상 | [그림 보기](../icons/notify/morning-19.jpg) |
-| 21 | 아침 등불은 말씀이래요 💡 | 주의 말씀은 내 발에 등이요(시 119:105). 어두운 아침, {portion}으로 불부터 켜요. | `point` | 불 켜기 | 항상 | [그림 보기](../icons/notify/morning-20.jpg) |
+| 21 | 아침 등불은 말씀이래요 💡 | 주의 말씀은 내 발에 등이요(시 119:105). 어두운 아침, {portion}으로 불부터 켜요. | `waiting` | 불 켜기 | 항상 | [그림 보기](../icons/notify/morning-20.jpg) |
 | 22 | 오늘 아침 얼굴 붉히지 않게 🌸 | 부끄러울 일 없는 하루는 말씀으로 시작할 때 쉬워요. {portion}, 지금 펼쳐 볼까요? | `heartplease` | 얼굴 빨개짐 | 항상 | [그림 보기](../icons/notify/morning-21.jpg) |
 | 23 | 아침부터 이마 치기 전에 🤦 | 어제 뭘 읽었는지 가물가물하다면 괜찮아요. 오늘 {portion}으로 기억을 다시 채워요. | `facepalm` | 기억 리셋 | 항상 | [그림 보기](../icons/notify/morning-22.jpg) |
 | 24 | 새 아침은 새 말씀으로 🌱 | 주의 인자하심이 아침마다 새로워요(애 3:23). 오늘 {portion}도 처음 읽는 것처럼요. | `pray` | 새 아침 | 항상 | [그림 보기](../icons/notify/morning-23.jpg) |
 | 25 | 아침 한 숟가락, 말씀 한 장 🥄 | 밥 한 숟가락 뜨기 전에 {portion} 한 절만 먼저 떠 보세요. 배부른 하루가 시작돼요. | `crosslegs` | 한 숟가락 먼저 | 항상 | [그림 보기](../icons/notify/morning-24.jpg) |
-| 26 | 독수리처럼 날개 치기 전에 🦅 | 날개 치며 오르려면 먼저 든든히 먹어야 해요(사 40:31). 오늘 {portion}이 그 든든한 아침이에요. | `cheer` | 날개 준비 | 항상 | [그림 보기](../icons/notify/morning-25.jpg) |
+| 26 | 독수리처럼 날개 치기 전에 🦅 | 날개 치며 오르려면 먼저 든든히 먹어야 해요(사 40:31). 오늘 {portion}이 그 든든한 아침이에요. | `dozing` | 날개 준비 | 항상 | [그림 보기](../icons/notify/morning-25.jpg) |
 | 27 | 나를 부지런히 찾는 자 🔎 | 새벽에 나를 찾는 자가 나를 만나리라(잠 8:17). 오늘도 {portion}에서 만나요. | `peek` | 찾았다! | 항상 | [그림 보기](../icons/notify/morning-26.jpg) |
 | 28 | 좋은 아침이에요, 오늘도 함께 읽어요 ☀ | 서두르지 않아도 괜찮아요. 오늘의 {portion}에서 마음에 닿는 한 문장을 만나 보세요. | `pray` | 천천히 한 문장 | 항상 | [그림 보기](../icons/notify/morning-27.jpg) |
 | 29 | 오늘 첫 페이지를 열 시간 📖 | 딱 한 장부터 시작해요. 작은 시작이 하루의 방향을 바꿔 줍니다. | `point` | 첫 페이지 | 항상 | [그림 보기](../icons/notify/morning-28.jpg) |
@@ -43,27 +43,27 @@
 
 | # | 알림 제목 | 알림 본문 | 양 포즈 | 그림 말풍선 | 조건 | 이미지 |
 |---:|---|---|---|---|---|---|
-| 1 | 엘리야 로뎀나무 모드 감지 🌳 | 지쳐 누운 엘리야에게도 천사가 '일어나서 먹으라' 했죠(왕상 19:5). 오늘 떡은 {portion}. | `lounge` | 일어나 먹으라 | 항상 | [그림 보기](../icons/notify/afternoon-0.jpg) |
+| 1 | 엘리야 로뎀나무 모드 감지 🌳 | 지쳐 누운 엘리야에게도 천사가 '일어나서 먹으라' 했죠(왕상 19:5). 오늘 떡은 {portion}. | `embarrassed` | 일어나 먹으라 | 항상 | [그림 보기](../icons/notify/afternoon-0.jpg) |
 | 2 | 식곤증 주의: 유두고 사례 🪟 | 바울 설교 듣다 졸다가 창문에서 떨어진 유두고(행 20:9). 성경 읽다 졸면 적어도 바닥이라 안전해요. | `sleep` | …zzZ | 항상 | [그림 보기](../icons/notify/afternoon-1.jpg) |
 | 3 | 제 구 시, 기도할 시간이에요 🕒 | 베드로와 요한은 오후 세 시에 기도하러 성전에 올라갔대요(행 3:1). 오후 세 시엔 말씀 한 장도 좋아요. | `peek` | 제 구 시임 | 항상 | [그림 보기](../icons/notify/afternoon-2.jpg) |
 | 4 | 요나처럼 반대 방향 가는 중? 🐋 | 니느웨 말고 다시스행 배를 탄 요나(욘 1:3). 성경 말고 쇼츠를 탄 우리. 지금 방향 전환 가능합니다. | `run` | 다시스 아님! | 항상 | [그림 보기](../icons/notify/afternoon-3.jpg) |
 | 5 | 오후 간식은 칼로리 0 🍯 | 주의 말씀의 맛이 꿀보다 더 달다고(시 119:103). 0kcal인데 달대요. {portion} 한 입? | `crosslegs` | 0kcal 꿀 | 항상 | [그림 보기](../icons/notify/afternoon-4.jpg) |
-| 6 | 삭개오야, 속히 내려오라 🌳 | 나무 위에서 구경만 하던 삭개오처럼(눅 19:5), 오늘 말씀도 구경만 하고 있진 않나요? | `point` | 내려오라 | 항상 | [그림 보기](../icons/notify/afternoon-5.jpg) |
+| 6 | 삭개오야, 속히 내려오라 🌳 | 나무 위에서 구경만 하던 삭개오처럼(눅 19:5), 오늘 말씀도 구경만 하고 있진 않나요? | `wave_small` | 내려오라 | 항상 | [그림 보기](../icons/notify/afternoon-5.jpg) |
 | 7 | 오늘 통독률 0%… 실화? ⏳ | 와이파이는 빵빵한데 말씀 진도는 0%. 지금 {portion} 누르면 바로 로딩 시작이에요. | `eye_roll` | 0%…실화? | 항상 | [그림 보기](../icons/notify/afternoon-6.jpg) |
 | 8 | 마리아는 좋은 편을 택했대요 ✨ | 바쁜 오후여도 필요한 것은 한 가지(눅 10:42). 할 일 목록 맨 위에 {portion} 올려 둘게요. | `sign` | 좋은 편<br>택하는 중 | 항상 | [그림 보기](../icons/notify/afternoon-7.jpg) |
 | 9 | 바로 왕처럼 '내일' 하실 건가요? 🐸 | 개구리 재앙 언제 없애 줄까 물으니 '내일'이라던 바로(출 8:10). 어디서 많이 본 패턴인데요. | `crosslegs` | 내일? 🐸 | 항상 | [그림 보기](../icons/notify/afternoon-8.jpg) |
 | 10 | 남은 알림 전에 선수 치기 🏃 | 지금 읽으면 오늘 남은 알림이 조용해져요. 알림 피하는 가장 빠른 방법! | `shush` | 조용히 끝내자 | 항상 | [그림 보기](../icons/notify/afternoon-9.jpg) |
-| 11 | 오후 3시 집중력 바닥 🫠 | 엘리야도 로뎀나무 아래서 쓰러졌지만 천사가 먹을 것을 주고 다시 세웠어요(왕상 19:5-7). {portion} 한 장으로 충전! | `lounge` | 충전 필요 | 항상 | [그림 보기](../icons/notify/afternoon-10.jpg) |
+| 11 | 오후 3시 집중력 바닥 🫠 | 엘리야도 로뎀나무 아래서 쓰러졌지만 천사가 먹을 것을 주고 다시 세웠어요(왕상 19:5-7). {portion} 한 장으로 충전! | `wave_tired` | 충전 필요 | 항상 | [그림 보기](../icons/notify/afternoon-10.jpg) |
 | 12 | 점심 먹고 쇼츠 3개 봤죠? 📱 | 쇼츠는 3개에서 멈추기 힘들지만, 성경은 {portion} 한 장에서 멈춰도 괜찮아요. | `phone` | 쇼츠 말고 이거 | 항상 | [그림 보기](../icons/notify/afternoon-11.jpg) |
 | 13 | ㄹㅇ 오후는 졸음 전쟁... 😴 | 식곤증은 말씀으로 이기는 거예요(시 119:103). 한 절만 읽고 세수 한번 해요. | `sleep` | 졸음 전쟁 | 항상 | [그림 보기](../icons/notify/afternoon-12.jpg) |
 | 14 | 이거 실화냐 통독 0%? 🤔 | 0%는 아직 '시작 전'이라는 뜻! {portion} 누르면 1%예요. 진짜로요. | `condescend` | 0% 실화? | 항상 | [그림 보기](../icons/notify/afternoon-13.jpg) |
 | 15 | 지금 가는 길 맞아요? 🧭 | 요나처럼 방향 틀기 전에 {portion} 한 번 펼쳐 보는 것도 좋아요(욘 1:3). | `run` | 방향 체크 | 항상 | [그림 보기](../icons/notify/afternoon-14.jpg) |
-| 16 | 오후 간식은 말씀 간식 🍪 | 꿀보다 달다는 말씀이에요(시 119:103). 칼로리 걱정 없는 간식! {portion} 한 입. | `crosslegs` | 칼로리 0 | 항상 | [그림 보기](../icons/notify/afternoon-15.jpg) |
+| 16 | 오후 간식은 말씀 간식 🍪 | 꿀보다 달다는 말씀이에요(시 119:103). 칼로리 걱정 없는 간식! {portion} 한 입. | `arms_open` | 칼로리 0 | 항상 | [그림 보기](../icons/notify/afternoon-15.jpg) |
 | 17 | 버스 타는 중이면 한 절 🚌 | 버스 세 정거장이면 한 장도 가능한 거리예요. {portion} 열어 두세요. | `phone` | 버스에서 한 절 | 항상 | [그림 보기](../icons/notify/afternoon-16.jpg) |
 | 18 | '내일 하지 뭐' 금지 ⏳ | 바로처럼 미루다 보면 결국 못 가요(출 8:10). 지금 {portion} 부탁! | `fingerwag` | 내일 금지 | 항상 | [그림 보기](../icons/notify/afternoon-17.jpg) |
 | 19 | 잠깐, 마음에 쉼표를 놓아 볼까요? 🍃 | 바쁜 틈에 숨을 고르고 {portion} 한 장 읽어요. 오늘도 충분히 잘하고 있어요. | `cheer` | 마음의 쉼표 | 항상 | [그림 보기](../icons/notify/afternoon-18.jpg) |
 | 20 | 3분만 집중 모드 켜기 🎧 | 알림은 잠시 내려놓고 말씀 한 단락만 읽어 봐요. 작은 집중이 깊은 쉼이 됩니다. | `phone` | 집중 모드 | 항상 | [그림 보기](../icons/notify/afternoon-19.jpg) |
-| 21 | 속보: 오후의 내가 말씀을 기다립니다 📰 | 쇼츠 한 편 대신 {portion} 한 장이면 오늘 이야기의 주인공은 나예요. | `sign` | 속보입니다 | 항상 | [그림 보기](../icons/notify/afternoon-20.jpg) |
+| 21 | 속보: 오후의 내가 말씀을 기다립니다 📰 | 쇼츠 한 편 대신 {portion} 한 장이면 오늘 이야기의 주인공은 나예요. | `shoulders_up` | 속보입니다 | 항상 | [그림 보기](../icons/notify/afternoon-20.jpg) |
 
 ## evening (21개)
 
@@ -73,22 +73,22 @@
 | 2 | 베뢰아 성도 모집 중 📜 | 날마다 성경을 상고하던 베뢰아 사람들처럼(행 17:11), 오늘은 {portion}을 상고할 차례예요. | `sign` | 베뢰아 성도<br>모집 중 | 항상 | [그림 보기](../icons/notify/evening-1.jpg) |
 | 3 | 칼뱅의 안경 챙기셨나요? 👓 | 칼뱅은 성경을 하나님을 바로 보게 하는 안경이라 했죠. 오늘 안경은 아직 서랍 속에 있어요. | `peek` | 안경 어디? | 항상 | [그림 보기](../icons/notify/evening-2.jpg) |
 | 4 | 사무엘아, 사무엘아 👂 | “말씀하옵소서 주의 종이 듣겠나이다”(삼상 3:10)가 정답인데, 지금 대답이 '5분만…'인 것 같아요. | `sideeye` | 5분만… | 항상 | [그림 보기](../icons/notify/evening-3.jpg) |
-| 5 | 퇴근길 말씀 한 조각 🚇 | 오늘 분량은 {portion}. 두세 정거장이면 한 장이 끝나요. 쇼츠 말고 이거요. | `phone` | 지하철엔 성경 | 항상 | [그림 보기](../icons/notify/evening-4.jpg) |
+| 5 | 퇴근길 말씀 한 조각 🚇 | 오늘 분량은 {portion}. 두세 정거장이면 한 장이 끝나요. 쇼츠 말고 이거요. | `hands_behind` | 지하철엔 성경 | 항상 | [그림 보기](../icons/notify/evening-4.jpg) |
 | 6 | 저녁은 드셨고, 말씀은요? 🍚 | 사람이 떡으로만 살 것이 아니라 하셨는데(마 4:4), 오늘 설마 떡만 드신 건 아니죠? | `armscross` | 떡만 먹음? | 항상 | [그림 보기](../icons/notify/evening-5.jpg) |
 | 7 | 롯의 아내처럼 뒤돌아보지 마요 🧂 | 오늘 하루 돌아보며 한숨 쉬지 말고(창 19:26), 앞에 놓인 {portion}만 보고 가요. | `shock` | 소금 될 뻔 | 항상 | [그림 보기](../icons/notify/evening-6.jpg) |
 | 8 | 노아는 비 오기 전에 방주 지었어요 🛶 | 비 오고 나서 지으면 늦잖아요(창 6:22). 자정 오기 전에 {portion} 지어 봐요. | `run` | 비 오기 전에! | 항상 | [그림 보기](../icons/notify/evening-7.jpg) |
 | 9 | 여리고는 일곱 바퀴, 오늘은 한 장부터 🎺 | 여리고 성은 일곱 바퀴 돌아야 무너졌지만(수 6:4), 오늘 분량은 한 장씩 넘기면 무너져요. | `sign` | 뿌우우~ | 항상 | [그림 보기](../icons/notify/evening-8.jpg) |
-| 10 | 기드온처럼 표징 기다리는 중? 🐑 | 양털로 확인하던 기드온처럼(삿 6:37) 사인을 기다리셨다면… 이 양이 그 표징입니다. 지금 읽으세요. | `condescend` | 이게 표징임 | 항상 | [그림 보기](../icons/notify/evening-9.jpg) |
+| 10 | 기드온처럼 표징 기다리는 중? 🐑 | 양털로 확인하던 기드온처럼(삿 6:37) 사인을 기다리셨다면… 이 양이 그 표징입니다. 지금 읽으세요. | `book_overhead` | 이게 표징임 | 항상 | [그림 보기](../icons/notify/evening-9.jpg) |
 | 11 | 저녁 먹고 뭐 하세요? 🍽 | 설거지 끝나고 소파에 눕기 전에 {portion} 먼저 펼쳐요. 누워서 해도 인정! | `sideeye` | 소파 전에 한 장 | 항상 | [그림 보기](../icons/notify/evening-10.jpg) |
 | 12 | 오늘 하루 감사 한 줄 준비 ✍ | 오늘 말씀 한 절에 감사 한 줄 쓰면 하루가 완성돼요(살전 5:18). | `sign` | 감사 한 줄 | 항상 | [그림 보기](../icons/notify/evening-11.jpg) |
 | 13 | ㅋㅋ 오늘 통독 안 하고 밤 되었죠? 🌙 | 밤에 하면 조금 더 힘들어요. 그래도 {portion} 한 장! | `shock` | 밤이 왔다 | 항상 | [그림 보기](../icons/notify/evening-12.jpg) |
 | 14 | 갓생 러너 퇴근 완료 🏃 | 오늘 달렸으니 마지막 한 바퀴! 달려갈 길을 마치기 위해(딤후 4:7) {portion}. | `run` | 마지막 한 바퀴 | 항상 | [그림 보기](../icons/notify/evening-13.jpg) |
-| 15 | 말씀 없이 잠들면 꿈도 흐려져요 💭 | 꿈 얘기하던 요셉처럼(창 37:5) 오늘 말씀을 꿈에 가져가요. {portion} 펴고 자요. | `peek` | 꿈에 말씀 들고 | 항상 | [그림 보기](../icons/notify/evening-14.jpg) |
+| 15 | 말씀 없이 잠들면 꿈도 흐려져요 💭 | 꿈 얘기하던 요셉처럼(창 37:5) 오늘 말씀을 꿈에 가져가요. {portion} 펴고 자요. | `book_on_head` | 꿈에 말씀 들고 | 항상 | [그림 보기](../icons/notify/evening-14.jpg) |
 | 16 | 아 피곤하죠? 그래도 한 장 🥱 | 엘리야도 천사가 준 떡 한 끼로 40일을 갔어요(왕상 19:8). 말씀 한 끼 먹고 자요. | `lounge` | 말씀 한 끼 | 항상 | [그림 보기](../icons/notify/evening-15.jpg) |
 | 17 | 내일 아침의 나에게 떠넘기기 금지 📝 | 내일 일은 내일이 염려할 거예요(마 6:34). 오늘 {portion}은 오늘 읽어요. | `sign` | 오늘이 마감 | 항상 | [그림 보기](../icons/notify/evening-16.jpg) |
 | 18 | 폰 내려놓고 성경 열기 📵 | 폰 80%보다 성경 한 장 100%! {portion} 펴면 잠도 잘 와요. | `shush` | 폰 내려놓기 | 항상 | [그림 보기](../icons/notify/evening-17.jpg) |
 | 19 | 저녁의 평안을 한 페이지에 🌙 | 하루의 소음을 잠시 내려놓고, {portion}을 천천히 읽으며 마음을 쉬게 해요. | `pray` | 평안 한 페이지 | 항상 | [그림 보기](../icons/notify/evening-18.jpg) |
-| 20 | 퇴근 완료! 마음도 로그아웃 전에 📤 | 오늘의 마지막 업무는 나를 살리는 말씀 읽기. {portion} 확인 후 편히 쉬세요. | `phone` | 마음 로그아웃 | 항상 | [그림 보기](../icons/notify/evening-19.jpg) |
+| 20 | 퇴근 완료! 마음도 로그아웃 전에 📤 | 오늘의 마지막 업무는 나를 살리는 말씀 읽기. {portion} 확인 후 편히 쉬세요. | `reading_seated` | 마음 로그아웃 | 항상 | [그림 보기](../icons/notify/evening-19.jpg) |
 | 21 | 양심이 아니라 양이 톡 보냈어요 🐑 | 오늘 읽을 {portion}이 아직 안 읽힘 상태래요. 지금 열면 바로 해결됩니다. | `peek` | 안 읽음 1건 | 항상 | [그림 보기](../icons/notify/evening-20.jpg) |
 
 ## night (21개)
@@ -98,22 +98,22 @@
 | 1 | 마르다야, 마르다야 🍳 | 분주한 하루였죠. 그래도 필요한 것은 한 가지(눅 10:42). {portion}, 지금 주님 발치에 앉아 볼까요? | `facepalm` | 마르다야… | 항상 | [그림 보기](../icons/notify/night-0.jpg) |
 | 2 | 도르트 총회만큼 미루실 건가요? ⏳ | 도르트 총회는 반년이 넘게 걸렸지만, 오늘 통독은 20분이면 돼요. | `eye_roll` | 도르트급 미룸 | 항상 | [그림 보기](../icons/notify/night-1.jpg) |
 | 3 | 쇼츠 대신 성경 한 장? 📱 | 알고리즘은 끝이 없지만 오늘 분량은 끝이 있어요. {portion}부터 가볍게 시작해요. | `phone` | 쇼츠 3시간째 | 항상 | [그림 보기](../icons/notify/night-2.jpg) |
-| 4 | 겟세마네 제자들 모드 😴 | “너희가 나와 함께 한 시간도 깨어 있을 수 없더냐”(마 26:40). 한 시간까진 필요 없어요. 20분이면 돼요. | `stomp` | 한 시간도…? | 항상 | [그림 보기](../icons/notify/night-3.jpg) |
+| 4 | 겟세마네 제자들 모드 😴 | “너희가 나와 함께 한 시간도 깨어 있을 수 없더냐”(마 26:40). 한 시간까진 필요 없어요. 20분이면 돼요. | `book_rest` | 한 시간도…? | 항상 | [그림 보기](../icons/notify/night-3.jpg) |
 | 5 | 보아스가 이삭을 남겨 뒀어요 🌾 | 룻을 위해 일부러 이삭을 흘려 두던 보아스처럼(룻 2:16), 오늘 말씀 이삭도 넉넉히 남아 있어요. | `crosslegs` | 이삭 남음 ㅎ | 항상 | [그림 보기](../icons/notify/night-4.jpg) |
 | 6 | 에스라는 새벽부터 정오까지 읽었대요 📖 | 느헤미야 8장의 에스라는 반나절을 읽었는데(느 8:3), 우리는 {portion}이면 돼요. 할 만하죠? | `sign` | 에스라: 6시간<br>나: 0분 | 항상 | [그림 보기](../icons/notify/night-5.jpg) |
 | 7 | 주야로 묵상, 이제 '야'만 남았어요 🌙 | 복 있는 사람은 주야로 묵상한다죠(시 1:2). 낮은 지나갔지만 밤은 아직 길어요. | `lounge` | 이제 '야'임 | 항상 | [그림 보기](../icons/notify/night-6.jpg) |
 | 8 | 발람의 나귀도 말을 했는데 🫏 | 나귀까지 입을 열어 말렸는데(민 22:28), 이제 양까지 나섰습니다. 성경 펴세요. | `sign` | 양도 말함 | 항상 | [그림 보기](../icons/notify/night-7.jpg) |
-| 9 | 닭 울기 전에 세 번째 다짐? 🐓 | “오늘은 진짜 읽는다” 오늘 몇 번째 다짐이세요? 닭 울기 전에 지켜 봐요(마 26:34). | `crosslegs` | 세 번째임 | 항상 | [그림 보기](../icons/notify/night-8.jpg) |
+| 9 | 닭 울기 전에 세 번째 다짐? 🐓 | “오늘은 진짜 읽는다” 오늘 몇 번째 다짐이세요? 닭 울기 전에 지켜 봐요(마 26:34). | `head_tilt` | 세 번째임 | 항상 | [그림 보기](../icons/notify/night-8.jpg) |
 | 10 | 섭리 가운데 도착한 알림입니다 😌 | 이 알림을 지금 보신 것도 섭리 안에 있겠죠? 순종으로 응답할 시간이에요. | `condescend` | 섭리임 ㅇㅇ | 항상 | [그림 보기](../icons/notify/night-9.jpg) |
 | 11 | 밤이 깊을수록 말씀이 또렷 🌃 | 밤에 읽는 시편은 참 맛있어요. 주야로 묵상하는 사람은 복 있는 사람이래요(시 1:2). {portion}! | `condescend` | 밤 시편 맛집 | 항상 | [그림 보기](../icons/notify/night-10.jpg) |
 | 12 | ㅅㄱ 또 밤에 생각났죠? 🤭 | 밤에 생각나는 말씀이 제일 오래 남아요. 지금 {portion} 한 장만요. | `crosslegs` | 밤에 생각남 | 항상 | [그림 보기](../icons/notify/night-11.jpg) |
 | 13 | 잠들기 전 기도 한마디 + 말씀 한 장 🙏 | 자기 전 말씀 한 장, 기도 한 줄이면 완벽한 마무리예요. {portion} 펴고 기도해요. | `kneel` | 취침 전 루틴 | 항상 | [그림 보기](../icons/notify/night-12.jpg) |
-| 14 | 오늘 완주 못 하면 어떡하지… 😰 | 완벽하지 않아도 돼요. 할 수 있는 만큼, {portion} 한 절부터 시작해요. | `pleading` | 한 절이면 됨 | 항상 | [그림 보기](../icons/notify/night-13.jpg) |
+| 14 | 오늘 완주 못 하면 어떡하지… 😰 | 완벽하지 않아도 돼요. 할 수 있는 만큼, {portion} 한 절부터 시작해요. | `foot_tap` | 한 절이면 됨 | 항상 | [그림 보기](../icons/notify/night-13.jpg) |
 | 15 | 밤 11시, 아직 살아 계신가요? 👀 | 밤샘은 말고, 깨어 있을 때 {portion} 한 번만 펼쳐요(마 26:41). | `shush` | 깨어 있기 | 항상 | [그림 보기](../icons/notify/night-14.jpg) |
 | 16 | 쇼츠 대신 시편 한 편? 🎵 | 시편은 노래책이라 노래 한 곡 듣는 셈 쳐요. {portion} 열고 소리 내 읽어 봐요. | `offerbook` | 시편 틀기 | 항상 | [그림 보기](../icons/notify/night-15.jpg) |
 | 17 | 자려고 누웠는데 폰 보는 중 🛌 | 누운 채로 {portion} 한 절만요. 그리고 폰은 내려놓아요. | `phonewait` | 누워서 한 절 | 항상 | [그림 보기](../icons/notify/night-16.jpg) |
 | 18 | 오늘 진짜 마지막 질문! 📣 | 오늘 말씀 읽었나요? NO면 지금 {portion} 한 절만 읽고 주무세요. | `eye_roll` | YES or NO? | 항상 | [그림 보기](../icons/notify/night-17.jpg) |
-| 19 | 오늘 하루, 여기까지도 수고했어요 🌌 | 남은 힘이 적다면 한 절만 읽어도 좋아요. 말씀 안에서 하루를 다정하게 마무리해요. | `heartplease` | 한 절도 좋아요 | 항상 | [그림 보기](../icons/notify/night-18.jpg) |
+| 19 | 오늘 하루, 여기까지도 수고했어요 🌌 | 남은 힘이 적다면 한 절만 읽어도 좋아요. 말씀 안에서 하루를 다정하게 마무리해요. | `crawl` | 한 절도 좋아요 | 항상 | [그림 보기](../icons/notify/night-18.jpg) |
 | 20 | 마감 임박! 성경책은 야근 안 시킬게요 🕘 | 전부 끝내려 애쓰지 않아도 돼요. {portion}에서 한 장만 함께 읽어요. | `facepalm` | 한 장이면 충분 | 항상 | [그림 보기](../icons/notify/night-19.jpg) |
 | 21 | 야식 대신 말씀 한 입 🍯 | 오늘의 양식은 아직 남아 있어요. {portion} 한 장 맛보고 편히 잠들어요. | `crosslegs` | 마음 야식 | 항상 | [그림 보기](../icons/notify/night-20.jpg) |
 
@@ -123,7 +123,7 @@
 |---:|---|---|---|---|---|---|
 | 1 | 열 처녀 비유, 등불 점검 🪔 | 자정까지 한 시간! 오늘 통독 등불이 아직 꺼져 있어요(마 25장). 기름 채우러 가요. | `point` | 기름 없음!! | 항상 | [그림 보기](../icons/notify/last-0.jpg) |
 | 2 | 🔥 {streak}일 연속 기록이 위태로워요 | 바울은 달려갈 길을 마쳤다는데(딤후 4:7), 우리의 연속 통독은 오늘 멈출 위기예요. | `cling` | 연속 기록!! | streak | [그림 보기](../icons/notify/last-1.jpg) |
-| 3 | 니고데모도 밤에 찾아왔어요 🌃 | 늦은 밤에 말씀 앞에 나와도 괜찮아요(요 3:2). 지금 한 장이라도 펼쳐요. | `peek` | 밤에 와도 됨 | 항상 | [그림 보기](../icons/notify/last-2.jpg) |
+| 3 | 니고데모도 밤에 찾아왔어요 🌃 | 늦은 밤에 말씀 앞에 나와도 괜찮아요(요 3:2). 지금 한 장이라도 펼쳐요. | `tiny_bow` | 밤에 와도 됨 | 항상 | [그림 보기](../icons/notify/last-2.jpg) |
 | 4 | 개미에게 가서 배우라시던데요 🐜 | 잠언 6장 6절이 이 시간에 떠오른 건 우연일까요? 아직 늦지 않았어요. | `sign` | 개미 보고<br>배우는 중 | 항상 | [그림 보기](../icons/notify/last-3.jpg) |
 | 5 | 당회에는 비밀로 할게요 🤫 | 오늘 통독 안 한 거, 목사님·장로님껜 말 안 할게요. 대신 자기 전에 {portion} 딱 펼쳐 주세요. | `shush` | 비밀 지켜줌 | 항상 | [그림 보기](../icons/notify/last-4.jpg) |
 | 6 | 마지막 알림이에요. 진짜로요. | 은혜는 값없이 주어지지만 성경은 펼쳐야 읽혀요. 오늘이 가기 전에 한 장만이라도! 🙏 | `lastlook` | 진짜 마지막 | 항상 | [그림 보기](../icons/notify/last-5.jpg) |
